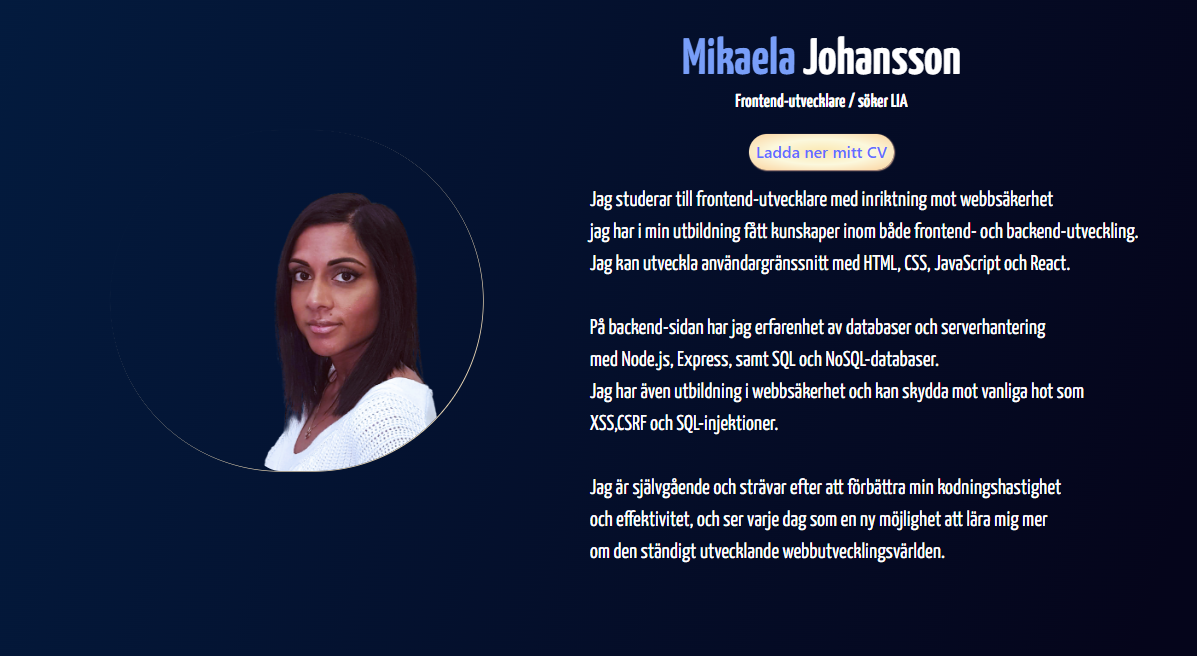
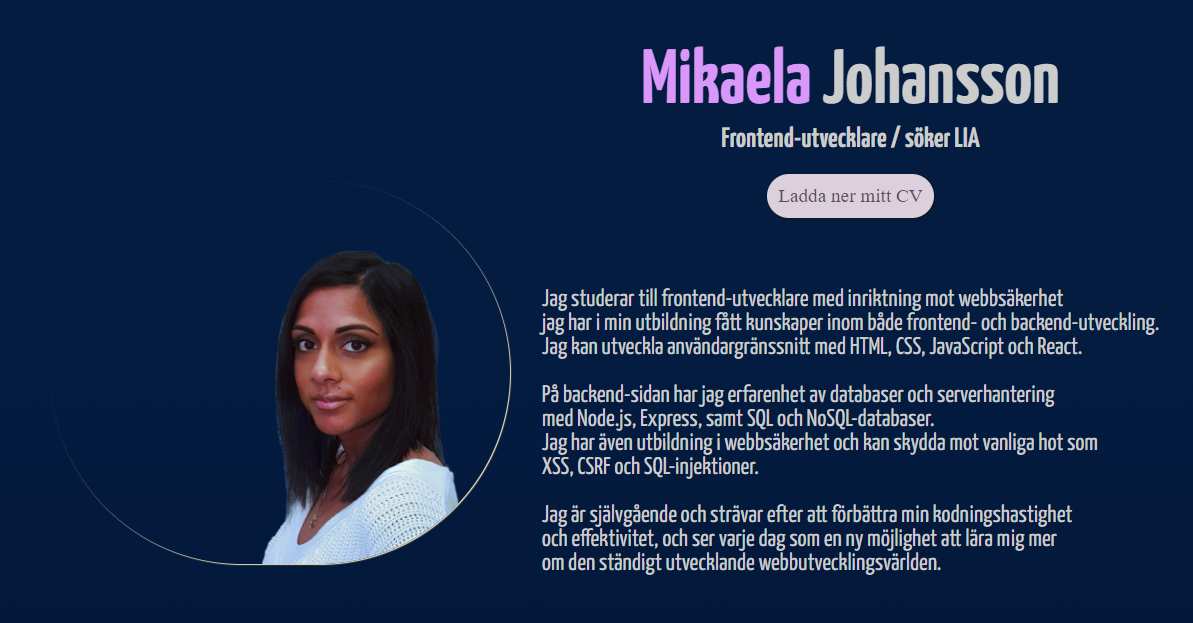
respons

diff --git a/src/portfolio.module.css b/src/portfolio.module.css
@@ -79,7 +79,7 @@
 }
 .rightSide{
   position: relative;
-  top: 0.4rem;
+  top: 0.8rem;
   margin-left: 2rem;
   width: fit-content;
 }
@@ -106,44 +106,12 @@
   margin-left:5rem ;
  
 }
-.skillsH1{
+.skillsH2{
  color: #c299f7;
  position: relative;
  top: 4rem;
  left: 7rem;
  font-size: 1.8rem;
-}
-
-/* about */
-.aboutText{
-  margin-left: 30rem;
-  width: fit-content;
-  padding-right: 15rem;
-}
-.about {
-  background-color: #cae0ce;
-  display: flex;
-  align-items: center;
-  justify-content: center;
-  align-content: center;
-  margin-top: 20rem;
-  margin-bottom: 9rem;
-  border-radius: 0.5rem;
-  color: black;
-  width: fit-content;
-  font-size: 1.3rem;
-  position: relative; 
-  box-shadow: 1px 1px 10px #0e021e;
-  font-family: "Yanone Kaffeesatz", sans-serif;
-  padding: 3rem;
-  font-weight: 400;
-}
-.imgRelaxt {
-  width: 300px; 
-  height: auto;
-  position: absolute; 
-  top: -92px; 
-  left: -50px; 
 }
 
 /* portfolio show */
@@ -174,7 +142,7 @@
   text-align: center;
   padding: 2rem;
   width: fit-content;
-  padding-top: 3rem;
+  padding-top: 4rem;
   padding-bottom: 3rem;
   color: black;
   font-size: 1.3rem;
@@ -195,6 +163,39 @@
   align-content: center;
   align-items: center;
   width: 50%;
+  margin-top: 9rem;
+}
+
+/* about */
+.aboutText{
+  margin-left: 9rem;
+  width: fit-content;
+  padding-right: 2rem;
+}
+.about {
+  background-color: #cae0ce;
+  display: flex;
+  align-items: center;
+  justify-content: center;
+  align-content: center;
+  margin-top: 10rem;
+  margin-bottom: 1rem;
+  border-radius: 0.5rem;
+  color: black;
+  width: fit-content;
+  font-size: 1.3rem;
+  position: relative; 
+  box-shadow: 1px 1px 10px #0e021e;
+  font-family: "Yanone Kaffeesatz", sans-serif;
+  padding: 3rem;
+  font-weight: 400;
+}
+.imgRelaxt {
+  width: 300px; 
+  height: auto;
+  position: absolute; 
+  top: -92px; 
+  left: -50px; 
 }
 
 /* send message */
@@ -280,26 +281,12 @@ h1,h3,h2 {
   font-family: "Yanone Kaffeesatz", sans-serif;
 }
 
+
+
+
 /* media querys */
 
-@media (min-width: 1200px) {
-  
-}
-
-@media (min-width: 992px) {
-  
-}
-
-@media (min-width: 768px) {
-  
-}
-@media (min-width: 600px) {
-  
-  
-}
-
-@media (max-width: 600px) {
-  /* head */
+@media (max-width: 900px) {
   .mainContainer {
     width: 100%;
   }
@@ -308,13 +295,13 @@ h1,h3,h2 {
   }
   .header {
     flex-direction: column;
-    margin-left: 0; /* Justera eller ta bort margin */
-    margin-top: 1rem; /* Mindre marginaler */
+    margin-left: 0; 
+    margin-top: 1rem; 
   }
 
   .headerText {
-    font-size: 1.5rem; /* Justera storleken för att passa små skärmar */
-    margin-right: 0; /* Ta bort marginaler som kan orsaka problem */
+    font-size: 1.5rem; 
+    margin-right: 0; 
   }
 
   /* skills */
@@ -324,46 +311,88 @@ h1,h3,h2 {
     display: flex;
     justify-content: center;
     align-items: center;
-    margin-left: 0; /* Justera eller ta bort margin */
+    margin-left: 0; 
   }
 
   /* about */
   .about {
     display: flex;
     flex-direction: column;
-    margin-left: 0; /* Justera eller ta bort margin */
-  }
-
-  .imgRelaxt {
-    padding-top: 2rem; /* Mindre padding för små skärmar */
-  }
-
-  .aboutText {
-    margin-left: 0; /* Justera eller ta bort margin */
+    margin-left: 0; 
   }
 
   /* skills ex */
   .portfolioContainer {
     display: flex;
     flex-direction: column;
-    margin-left: 0; /* Justera eller ta bort margin */
+    margin-left: 0;
   }
 
   /* message container */
   .messageButtonStart {
-    margin-left: 0; /* Justera eller ta bort margin */
-    margin-top: 1rem; /* Mindre marginaler */
-  }
-
-  .commentForm {
-    margin-left: 0; /* Justera eller ta bort margin */
+    margin-left: 0; 
+    margin-top: 1rem; 
   }
 
   /* footer */
   .contactfooter {
     flex-direction: column;
-    margin-left: 0; /* Justera eller ta bort margin */
+    margin-left: 0; 
   }
+}
+
+
+@media (max-width: 600px) {
+ /* head */
+  .mainContainer {
+    width: 100%;
+  }
+  .imgPort{
+    width: 100px;
+  }
+  .header {
+    flex-direction: column;
+    margin-left: 0; 
+    margin-top: 1rem; 
+  }
+  .headerText {
+    font-size: 1.5rem;
+  }
+
+  /* about */
+  .about {
+    display: flex;
+    flex-direction: column;
+  }
+  .imgRelaxt {
+    width: 300px;
+    margin-top: 1.3rem;
+  }
+
+  /* skills ex */
+  .portfolioContainer {
+    display: flex;
+    flex-direction: column;
+    margin-left: 0; 
+  }
+
+  /* message container */
+  .messageButtonStart {
+    margin-left: 0; 
+    margin-top: 1rem; 
+  }
+
+  .commentForm {
+    margin-left: 0; 
+  }
+
+  /* footer */
+  .contactfooter {
+    flex-direction: column;
+    margin-left: 0; 
+  }
+
+  
 }
 
 

diff --git a/src/App.jsx b/src/App.jsx
@@ -153,7 +153,7 @@ function App() {
               whileInView="visible"
               viewport={{ once: true }}
             >
-              <h2 className={styles.skillsH1}> Färdigheter</h2>
+              <h2 className={styles.skillsH2}> Färdigheter</h2>
               <div className={styles.progressItem}>
                 <ProgressBar percentage={65} width={200}  />
                 <ul className={styles.ul}>
@@ -205,32 +205,7 @@ function App() {
 
       <br />
 
-      <section className={styles.about}>
-       <div >
-        <motion.img
-          className={styles.imgRelaxt}
-          src="/img/jag.png"
-          alt="jag"
-          variants={slideInFromLeft}
-          initial="hidden"
-          whileInView="visible"
-          viewport={{ once: true }}
-        />
-        <motion.p
-          variants={fadeIn}
-          initial="hidden"
-          whileInView="visible"
-          viewport={{ once: true }}
-        >
-        <p className={styles.aboutText}>
-          Ålder: 37 <br />
-          Bor: Stockholm. <br />
-          Familj: Sambo, 3 hundar. <br />
-          Intressen: Historia, förhistoriska civilisationer.
-        </p>
-        </motion.p>
-       </div>
-      </section>
+     
 
       <section className={styles.portfolioContainer}>
         <div className={styles.skillsSnackis}>
@@ -340,8 +315,38 @@ function App() {
         </div>
       </section>
 
+      <section className={styles.about}>
+       <div >
+        <motion.img
+          className={styles.imgRelaxt}
+          src="/img/jag.png"
+          alt="jag"
+          variants={slideInFromLeft}
+          initial="hidden"
+          whileInView="visible"
+          viewport={{ once: true }}
+        />
+        <motion.p
+          variants={fadeIn}
+          initial="hidden"
+          whileInView="visible"
+          viewport={{ once: true }}
+        >
+        <p className={styles.aboutText}>
+          Ålder: 37 <br />
+          Bor: Stockholm. <br />
+          Familj: Sambo, 3 hundar. <br />
+          Intressen: Historia, förhistoriska civilisationer.
+        </p>
+        </motion.p>
+       </div>
+      </section>
+
+
+
       <div className={styles.messageContainer}>
         {!isFormVisible && (
+          
           <button onClick={handleShowForm} className={styles.messageButtonStart}>
             Skicka meddelande till mig
           </button>
